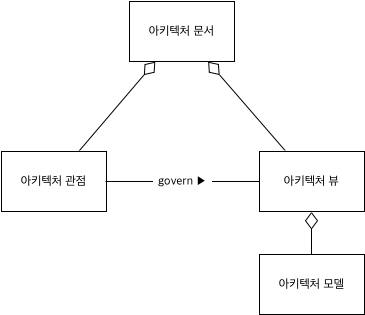
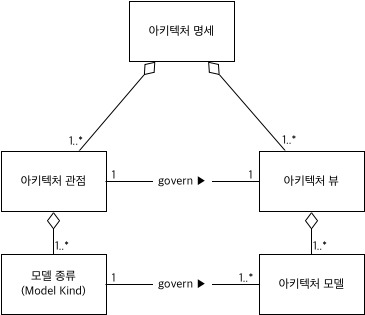
논리뷰까지 작성 완료

diff --git a/logical-viewpoint.md b/logical-viewpoint.md
@@ -1,0 +1,49 @@
+# 논리관점\(Logical Viewpoint\) 아키텍처 문서
+
+## 1. 아키텍처 스타일
+
+MyWorkshop:Stock은 [React](https://facebook.github.io/react/), [Electron](http://electron.atom.io)이라는 기술 스택이 이미 정해진 프로젝트이기 때문에, 해당 기술에서 강제하는, 또는 권장하는 아키텍처 스타일을 적용한다.
+
+### AD_AS_1: Client-Server 아키텍처 스타일 적용
+Electron은 기본적으로 Client-Server 아키텍처 스타일로 구성되어있다. 즉, 메인 프로세스가 Server 역할을 하고, 렌더러 프로세스가 Client 역할을 수행한다.
+
+### AD_AS_2: [Flux 아키텍처 스타일](https://facebook.github.io/flux/) 적용
+Flux 아키텍처 스타일은 Facebook에서 제안한 아키텍처 스타일로, MVC 아키텍처 스타일을 대체하는(또는 한다고 주장하는) 아키텍처 스타일이다. React와 함께 사용하면 복잡성을 낮추고, 테스트에 용이하기 때문에 Client에 적용한다. AD_AS_1로 인해 메인 프로세스와 렌더러 프로세스는 완전히 따로 작동하며, 메인 프로세스에는 UI가 없기 때문에 복잡성을 낮추기 위해 Flux 아키텍처 스타일은 렌더러 프로세스에만 적용한다.
+
+#### 대안: 메인-렌더러 프로세스에 걸쳐 하나의 Flux 아키텍처 스타일 구조를 유지
+Action을 dispatch 하고 업데이트된 Store를 다시 UI에 반영하기 위해 많은 IPC 호출이 필요할 것으로 생각된다. 그리고 Store 자체가 단순 JSON 형태로 저장되어 있는 만큼, 현재는 불필요한 복잡성만을 유발할 것으로 생각된다. 하지만 향후 메인 프로세스에 embedded DB가 추가되면, 이러한 구조 변경을 고려할 수 있다.
+
+## 2. 모델 종류들
+
+### 2.1 LV_MK_1: 1-level 논리뷰 아키텍처 모델 종류 정의
+
+![](./assets/lv-model-kind-01.jpg)
+
+1-level은 가장 추상수준이 높은(즉 제일 먼저 설계하는) 모델을 의미한다.
+
+### 2.2 LV_MK_2: 2-level 논리뷰 아키텍처 모델 종류 정의
+
+![](./assets/lv-model-kind-02.jpg)
+
+실행 컴포넌트는 정확히는 JavaScript 파일들의 집합이다. Java와 같은 컴파일 언어와는 다르게, JavaScript는 소스코드들이 곧 실행 컴포넌트가 된다. (참으로 편한 언어라고 할 수 있다.)
+
+JavaScript도 물론 클래스가 있고 객체가 있다. 하지만 MyWorkshop:Stock에서는 기본적으로 '파일' 단위로 프로그래밍이 되었다. Java 프로그램의 경우 클래스가 곧 파일이 되고, 이 클래스들의 객체가 실행 측면에서 중요한 요소가 되지만, 현재 MyWorkshop:Stock은 그렇지 않다. 그렇기 때문에, LV_MK_2 수준의 모델 종류에서 만족하기로 한다.
+
+## 3. 아키텍처 모델들
+
+아키텍처 모델은 기본적으로 아키텍처 결정사항들의 집합이다. 예를 들면, "컴포넌트 A를 만들고, 컴포넌트 B를 만들고, 컴포넌트 A와 컴포넌트 B는 관계1로 연결된다" 라는 3개의 아키텍처 결정사항들을 그림으로 표현해둔 것이 아키텍처 모델(즉, 다이어그램)이다. 그렇기 때문에 'AD_' prefix를 사용한다.
+
+### 3.1 AD_LV_1: 1-level 논리뷰 아키텍처 모델 (LV_MK_1 적용)
+
+![](./assets/lv-model-01.jpg)
+
+AD_AS_1을 적용한다. LC03은 사용자가 요청할 때마다 창을 여러개 늘릴 수도 있고, 아애 없는 상태가 될 수도 있지만, LC02는 반드시 1개만 떠 있어야 한다. 그리고 사용자 데이터는 json 파일에 저장된다.
+
+### 3.2 AD_LV_2: 2-level 논리뷰 아키텍처 모델 (LV_MK_2 적용)
+
+![](./assets/lv-model-02.jpg)
+
+AD_AS_2를 적용한다. 현재 LC05는 UI 컴포넌트임에도 IPC 연결까지 담당하고 있다. 바람직해보이지 않는 구성인데, 왜냐하면 UI와 로직이 분리되지 않았기 때문이다. 향후 IPC를 담당하는 실행 컴포넌트를 분리할 예정이다.
+
+## 추적성
+최상위 아키텍처 설계이고, 요구사항 문서가 따로 존재하지 않기 때문에 다른 문서의 요소들과의 추적성은 현재 없다.

diff --git a/sw-architecture.md b/sw-architecture.md
@@ -1,0 +1,30 @@
+# 아키텍처 문서
+
+## 개요
+
+순방향 소프트웨어 개발 절차에서는 요구사항 도출 후 소프트웨어 아키텍처 설계를 진행하고, 이를 기반으로 코드를 작성한다. 하지만 MyWorkshop:Stock은 규모가 작고, 특정 기술들\(React, Electron, JavaScript 등\)을 학습하기 위한 프로토타입이기 때문에, 이러한 과정을 거치지 않았다. 그래서 본 문서는 기존 소프트웨어 아키텍처 문서의 목적 보다는 다음과 같은 목적들에 더 중점을 갖고 기록되었다.
+
+1. 현재 코드와 어플리케이션 작동 구조를 추상화하여 이해한다.
+2. 개발이 확장되어감에 있어 지켜져야 할 전체적인 구조와 제약사항을 기록한다.
+
+## 아키텍처 관점\(Viewpoint\) 체계
+
+본 문서는 여러 아키텍처 관점들 중에서 실행 측면의 논리관점\(Logical Viewpoint\), 코드 측면의 모듈관점\(Module Viewpoint\), 코드관점\(Code Viewpoint\)을 사용해서 아키텍처를 설계하였다. 관점\(Viewpoint\), 뷰\(View\), 모델\(Model\)들이 관계는 소프트웨어 아키텍처 문서화 표준인 [IEEE:42010](http://www.iso-architecture.org/ieee-1471/)을 따랐다. \(아래 그림 참조\)
+
+![IEEE 42010 표준 모델 중 일부](./assets/architecture-viewpoint-view-model.jpg)
+
+### 아키텍처 관점 명세 포멧
+
+IEEE 42010에서는 아키텍처 관점 명세를 위한 템플릿을 제공한다. 이 템플릿에는 이해관계자(Stakeholder), 그들의 관심사항(Concern)을 먼저 명세하고, 모델 종류(Model Kind)들과 아키텍처 모델을 차례로 명세한다. 그 후 마지막으로 아키텍처 명세를 구성하는 요소들(관점, 뷰, 모델 등) 사이의 관계(추적성, 일관성, 포함관계 등)를 명세하고 마친다. 이들 중 이해관계자와 관심사항은 나에겐 별로 중요한 사항이 아니니 제외하고, 마지막 요소(Correspondence라고 부른다)는 뷰와 모델 사이의 추적성만을 명세한다. 그리고 추가로 만약 특정 아키텍처 스타일을 적용하였다면, 어떤 아키텍처 스타일을 적용하였고, 이 것을 어떤 모델에서 확인할 수 있는지를 명세하는 단계를 맨 처음에 명세한다. 결과적으로 다음과 같은 포멧으로 명세한다.
+
+1. 아키텍처 스타일 (선택)
+1. 모델 종류들
+2. 아키텍처 모델들 (다이어그램들)
+3. 추적성
+
+
+### 각 관점별 아키텍처 문서
+
+1. [논리관점\(Logical Viewpoint\) 아키텍처 문서](./logical-viewpoint.md)
+2. [모듈관점\(Module Viewpoint\) 아키텍처 문서](./module-viewpoint.md)
+3. [코드관점\(Code Viewpoint\) 아키텍처 문서](./code-viewpoint.md)

diff --git a/README.md b/README.md
@@ -4,21 +4,6 @@ MyWorkshop\(MW Project\)은 홀로 경제활동을 하는 프리랜서들에게 
 
 MyWorkshop: Stock은 간단한 재고 관리 프로그램으로, 프리랜서들 중 각종 ‘굿즈’를 제작해 판매하는 사람들이 간단하게 사용할 수 있도록 만들어둔 앱이다.지금은 사실 엑셀보다 나을게 없지만향후 업데이트를 통해 개인적으로 실험해보고 싶었던 여러 기술들을 적용해볼 예정이다.
 
-## Software Architecture
-
-### 개요
-
-순방향 소프트웨어 개발 절차에서는 요구사항 도출 후 소프트웨어 아키텍처 설계를 진행하고, 이를 기반으로 코드를 작성한다. 하지만 MyWorkshop:Stock은 규모가 작고, 특정 기술들\(React, Electron, JavaScript 등\)을 학습하기 위한 프로토타입이기 때문에, 이러한 과정을 거치지 않았다. 그래서 본 문서는 기존 소프트웨어 아키텍처 문서의 목적 보다는 다음과 같은 목적들에 더 중점을 갖고 기록되었다.
-
-1. 현재 코드와 어플리케이션 작동 구조를 추상화하여 이해한다.
-2. 개발이 확장되어감에 있어 지켜져야 할 전체적인 구조와 제약사항을 기록한다.
-
-### 아키텍처 관점\(Viewpoint\) 체계
-
-본 문서는 여러 아키텍처 관점들 중에서 실행 측면의 논리관점\(Logical Viewpoint\), 코드 측면의 모듈관점\(Module Viewpoint\), 코드관점\(Code Viewpoint\)을 사용해서 아키텍처를 설계하였다. 관점\(Viewpoint\), 뷰\(View\), 모델\(Model\)들이 관계는 소프트웨어 아키텍처 문서화 표준인 [IEEE:42010](http://www.iso-architecture.org/ieee-1471/)을 따랐다. \(아래 그림 참조\)
-
-![IEEE 42010 표준 모델 중 일부](./assets/architecture-viewpoint-view-model.jpg)
-
-### 상세 설계
-
-아키텍처 뷰에 정의된 아키텍처 모델들은 추상화 수준이 높고, 왠만해서는 변경이 되지 않는 영역이다. 반면에 상세 설계는 코드에 바로 반영이 되는 구체적인 실행 흐름이나 데이터 구조를 정의한다.
+## 문서 종류
+- [아키텍처 문서](./sw-architecture.md)
+- [상세 디자인 문서](./detail-design.md)

diff --git a/_drafts_/sw-architecture-explain.md b/_drafts_/sw-architecture-explain.md
@@ -1,0 +1,3 @@
+난 개인적으로 이 표준의 정의를 상당히 좋아하는 편인데, 이유는 소프트웨어 아키텍처를 구성하는 개념들의 관계에 대한 설명이 매우 명쾌하기 때문이다. IEEE 42010 표준에 의하면, 아키텍처 명세는 기본적으로 아키텍처 관점과 그 관점이 정의하는 아키텍처 뷰로 구성된다. 아키텍처 관점은 모델 종류\(Model Kind\)들로 구성이 되는데, 모델 종류는 간단히 말하자면 '문법', 또는 '범례'라고 보면 된다. 그리고 이 범례를 따라 표현되는 아키텍처 모델\(다이어그램들\)들로 아키텍처 뷰가 구성된다. 즉, 아키텍처 관점은 소프트웨어 구조를 표현하기 위한 범례, 문법, 기준들을 정의하고, 이에 따라 실제로 소프트웨어 구조를 묘사하는 것이 아키텍처 뷰가 된다. 소프트웨어는 문서를 보는 독자의 관심사항에 따라 여러 모습을 가질 수 있기 때문에, \(UML 클래스 다이어그램과 UML 컴포넌트 다이어그램의 차이를 생각해보면 된다.\) 여러가지 아키텍처 관점들을 자유롭게 잘 정의해서 묘사하는 것이 중요하다.
+
+예를 들어보자면, "난 클래스들의 관계를 보고 싶어."라는 것은 하나의 관점을 정의하는 관심사항\(Concern\)이 된다. 

diff --git a/detail-design.md b/detail-design.md
@@ -1,0 +1,3 @@
+# 상세 디자인 문서
+
+아키텍처 뷰에 정의된 아키텍처 모델들은 추상화 수준이 높고, 왠만해서는 변경이 되지 않는 영역이다. 반면에 상세 설계는 코드에 바로 반영이 되는 구체적인 실행 흐름이나 데이터 구조를 정의한다. 

diff --git a/module-viewpoint.md b/module-viewpoint.md
@@ -1,0 +1,3 @@
+# 모듈관점\(Module Viewpoint\) 아키텍처 문서
+
+TBD

diff --git a/code-viewpoint.md b/code-viewpoint.md
@@ -1,0 +1,3 @@
+# 코드관점\(Code Viewpoint\) 아키텍처 문서
+
+TBD
